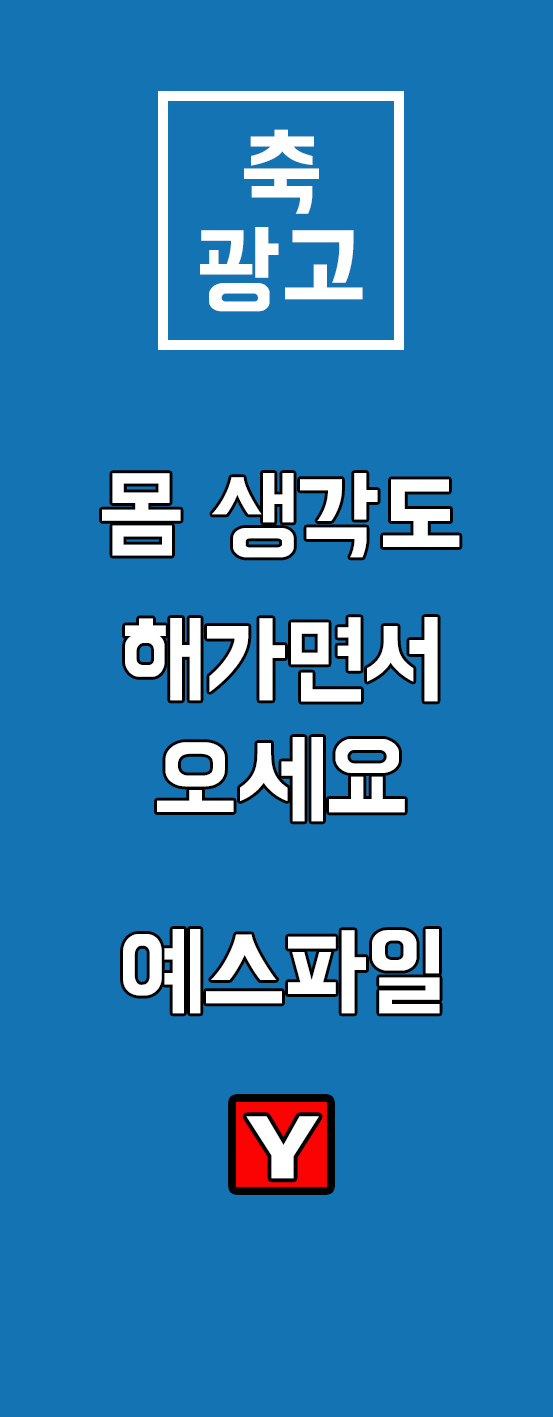
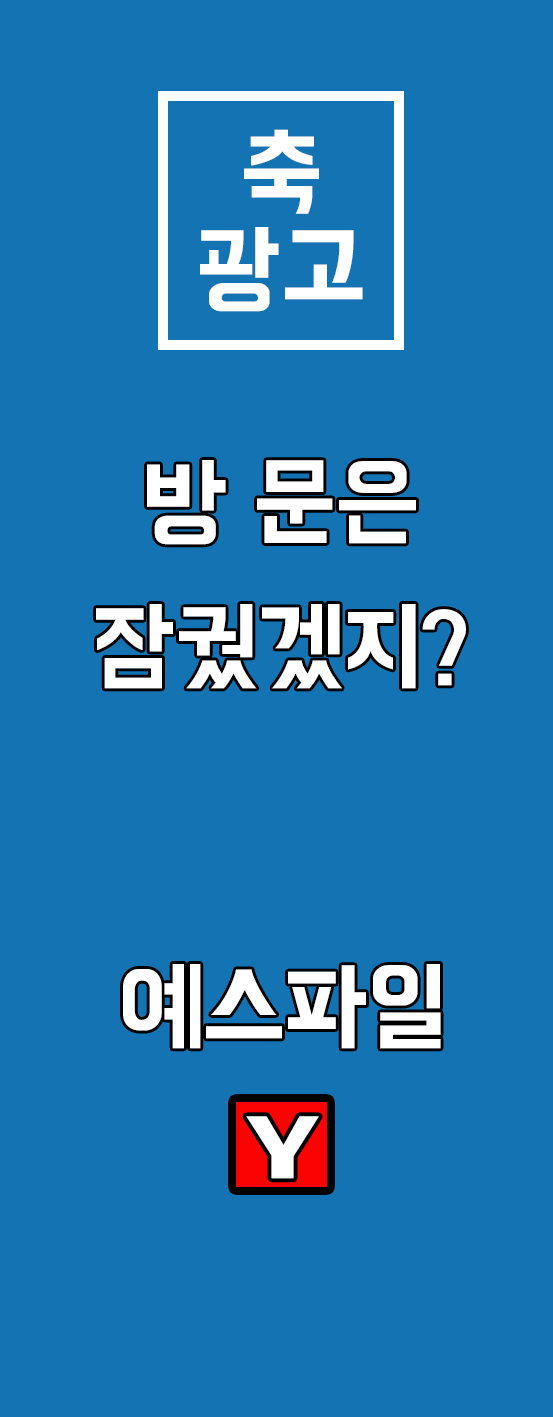
광고최신

Changed region(s): [[0.1537, 0.3105, 0.8608, 0.59], [0.2152, 0.6521, 0.7993, 0.7452]]

diff --git a/apps/templates/actor_category.html b/apps/templates/actor_category.html
@@ -15,7 +15,7 @@
         .ad {
             height: 18em;
             width: 24em;
-            background-image: url(../static/img/ad_mobile2.png);
+            background-image: url(../static/img/ad_mobile{{number}}.png);
             background-size: cover;
 
         }

diff --git a/apps/templates/actor_category2.html b/apps/templates/actor_category2.html
@@ -15,7 +15,7 @@
         .ad{
             height: 18em;
             width: 24em;
-            background-image: url(../static/img/ad_mobile2.png);
+            background-image: url(../static/img/ad_mobile{{number}}.png);
             background-size: cover;
 
         }

diff --git a/apps/templates/actor_main.html b/apps/templates/actor_main.html
@@ -17,7 +17,7 @@
         .ad{
             height: 18em;
             width: 24em;
-            background-image: url(../static/img/ad_mobile2.png);
+            background-image: url(../static/img/ad_mobile{{number}}.png);
             background-size: cover;
 
         }

diff --git a/apps/templates/video_category.html b/apps/templates/video_category.html
@@ -14,7 +14,7 @@
         .ad{
             height: 18em;
             width: 24em;
-            background-image: url(../static/img/ad_mobile2.png);
+            background-image: url(../static/img/ad_mobile{{number}}.png);
             background-size: cover;
 
         }

diff --git a/apps/templates/video_category2.html b/apps/templates/video_category2.html
@@ -14,7 +14,7 @@
         .ad{
             height: 18em;
             width: 24em;
-            background-image: url(../static/img/ad_mobile2.png);
+            background-image: url(../static/img/ad_mobile{{number}}.png);
             background-size: cover;
 
         }

diff --git a/apps/templates/video_main.html b/apps/templates/video_main.html
@@ -26,7 +26,7 @@
         .ad{
             height: 18em;
             width: 24em;
-            background-image: url(../static/img/ad_mobile2.png);
+            background-image: url(../static/img/ad_mobile{{number}}.png);
             background-size: cover;
 
         }

diff --git a/apps/controllers.py b/apps/controllers.py
@@ -323,34 +323,42 @@ def recommend():
     email = session['session_user_email']
     cUser = User.query.get(email)
     # count = len(cUser.ratings())
-    count = cUser.numVideo
+    countVideo = cUser.numVideo
     # logging.error(count)
     rList = False
+    success=""
     # 추천 수가 부족할 경우 추천 알고리즘 안돌림
-    if count <24:
-        return render_template("recommendation.html",count=count, rList=rList)
+    if countVideo < 24:
+        return render_template("recommendation.html",count=countVideo, rList=rList)
     else:
-        if not cUser.prefsVideo:
+        logging.error("1")
+        if cUser.prefsVideo == None:
+            logging.error("2")
             success = False
             try:
                 list = recommendation.getSoulmate(recommendation.makeVideoRowData(),email,n=5)
+                logging.error(list)
+                logging.error("3")
                 a = json.dumps(list)
                 cUser.prefsVideo = a
                 db.session.commit()
                 success = True
             except:pass
             if success:
+                logging.error("4")
                 try:
                     prefs = json.loads(cUser.prefsVideo)
                     rList = recommendation.getRecommendations(recommendation.makePrefs(prefs),email,similarity=recommendation.simPearson)
                 except:pass
         else:
             try:
+                logging.error("5")
                 prefs = json.loads(cUser.prefsVideo)
                 rList = recommendation.getRecommendations(recommendation.makePrefs(prefs),email,similarity=recommendation.simPearson)
             except:pass
-        return render_template('recommendation.html', rList=rList,count=count)
-    # return 'well done'
+
+        return render_template('recommendation.html', rList=rList,count=countVideo)
+        # return 'well done'
 
 # 배우 추천기능
 @app.route('/recomm',methods=['GET','POST'])
@@ -362,18 +370,23 @@ def recommend2():
     email = session['session_user_email']
     cUser = User.query.get(email)
     # count = len(cUser.aRatings())
-    count = cUser.numActor
+    countActor = cUser.numActor
     # logging.error(count)
     rList = False
+    success=""
     # 추천 수가 부족할 경우 추천 알고리즘 안돌림
-    if count<24:
-        return render_template("recomm.html",count=count,rList=rList)
+    if countActor<24:
+        return render_template("recomm.html",count=countActor,rList=rList)
     else:
-        if not cUser.prefsActor:
+        logging.error("1")
+        if cUser.prefsActor ==None:
+            logging.error("2")
             success = False
             # _x = getMicrotime()
             try:
+                logging.error("3")
                 list = recommendation.getSoulmate(recommendation.makeActorRowData(),email,n=5)
+                logging.error(list)
                 a = json.dumps(list)
                 cUser.prefsActor = a
                 db.session.commit()
@@ -381,6 +394,7 @@ def recommend2():
             except:pass
             if success:
                 try:
+                    logging.error("4")
                     prefs = json.loads(cUser.prefsActor)
                     rList = recommendation.getRecommendations(recommendation.makePrefsActor(prefs),email,similarity=recommendation.simPearson)
                 except:pass
@@ -390,6 +404,7 @@ def recommend2():
             try:
 
                 # _s = getMicrotime()
+                logging.error("5")
                 prefs = json.loads(cUser.prefsActor)
                 rList = recommendation.getRecommendations(recommendation.makePrefsActor(prefs),email,similarity=recommendation.simPearson)
                 # _e = getMicrotime()
@@ -399,7 +414,7 @@ def recommend2():
         # rList = recommendation.getRecommendations(recommendation.makeActorRowData(),email,similarity=recommendation.simPearson)
         # _e = getMicrotime()
         # timeLogger("rList", _s, _e)
-        return render_template('recomm.html', rList=rList, count=count)
+        return render_template('recomm.html', rList=rList, count=countActor)
     # return 'well done'
 
 

diff --git a/apps/controller/video.py b/apps/controller/video.py
@@ -28,7 +28,7 @@ def video_main():
         .with_entities(Video.name,Video.average).limit(5).limit(5)
 
     review = VideoReview.query.order_by(desc(VideoReview.id)).limit(40)
-    number = random.randint(1,5)
+    number = random.randint(1,3)
 
     return render_template("video_main.html", content=content,review=review,number=number)
 
@@ -88,7 +88,7 @@ def video_category(name, page):
     else:
         up = int(total_page)
 
-    number = random.randint(1,5)
+    number = random.randint(1,3)
 
     return render_template("video_category.html", videoCategory=videoCategory, category=category,
                            total_page=range(1+(10*(int(a)-1)), int(total_page+1)), up = up, down = down,ratingList=ratingList,page=page,name=name,number=number)
@@ -149,7 +149,7 @@ def video_category2(name, page):
     else:
         up = int(total_page)
 
-    number = random.randint(1,5)
+    number = random.randint(1,3)
 
     return render_template("video_category2.html", videoCategory=videoCategory, category=category,
                            total_page=range(1+(10*(int(a)-1)), int(total_page+1)), up = up, down = down,ratingList=ratingList,page=page,name=name,number=number)

diff --git a/apps/controller/actor.py b/apps/controller/actor.py
@@ -30,7 +30,7 @@ def actor_main():
         .with_entities(Actor.name,Actor.average).limit(5)
 
     review = ActorReview.query.order_by(desc(ActorReview.id)).limit(40)
-    number = random.randint(1,5)
+    number = random.randint(1,3)
 
 
     return render_template("actor_main.html", content=content,review=review,number=number)
@@ -106,7 +106,7 @@ def actor_category(name, page):
     else:
         up = int(total_page)
 
-    number = random.randint(1,5)
+    number = random.randint(1,3)
 
     return render_template("actor_category.html", actorCategory=actorCategory, category=category,
                            total_page=range(1+(10*(int(a)-1)), int(total_page+1)), up = up, down = down,ratingList=ratingList,page=page,name=name,number=number)
@@ -165,7 +165,7 @@ def actor_category2(name, page):
     else:
         up = int(total_page)
 
-    number = random.randint(1,5)
+    number = random.randint(1,3)
 
     return render_template("actor_category2.html", actorCategory=actorCategory, category=category,
                            total_page=range(1+(10*(int(a)-1)), int(total_page+1)), up = up, down = down,ratingList=ratingList,page=page,name=name,number=number)
